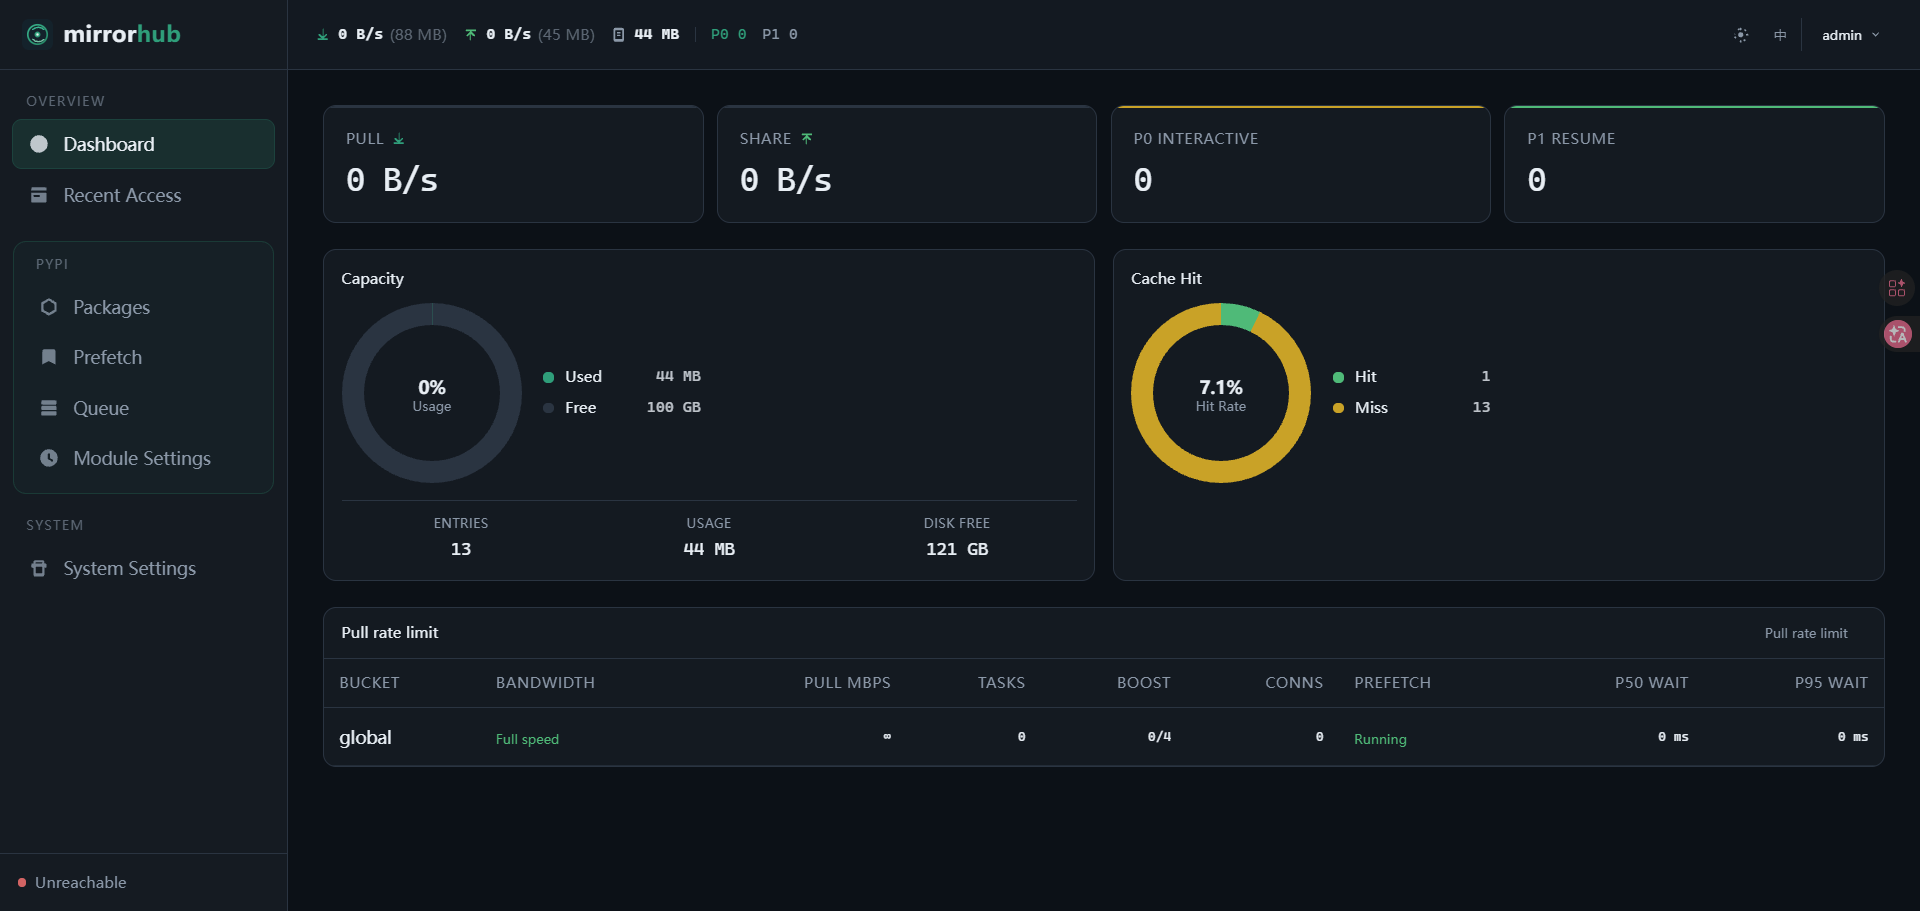
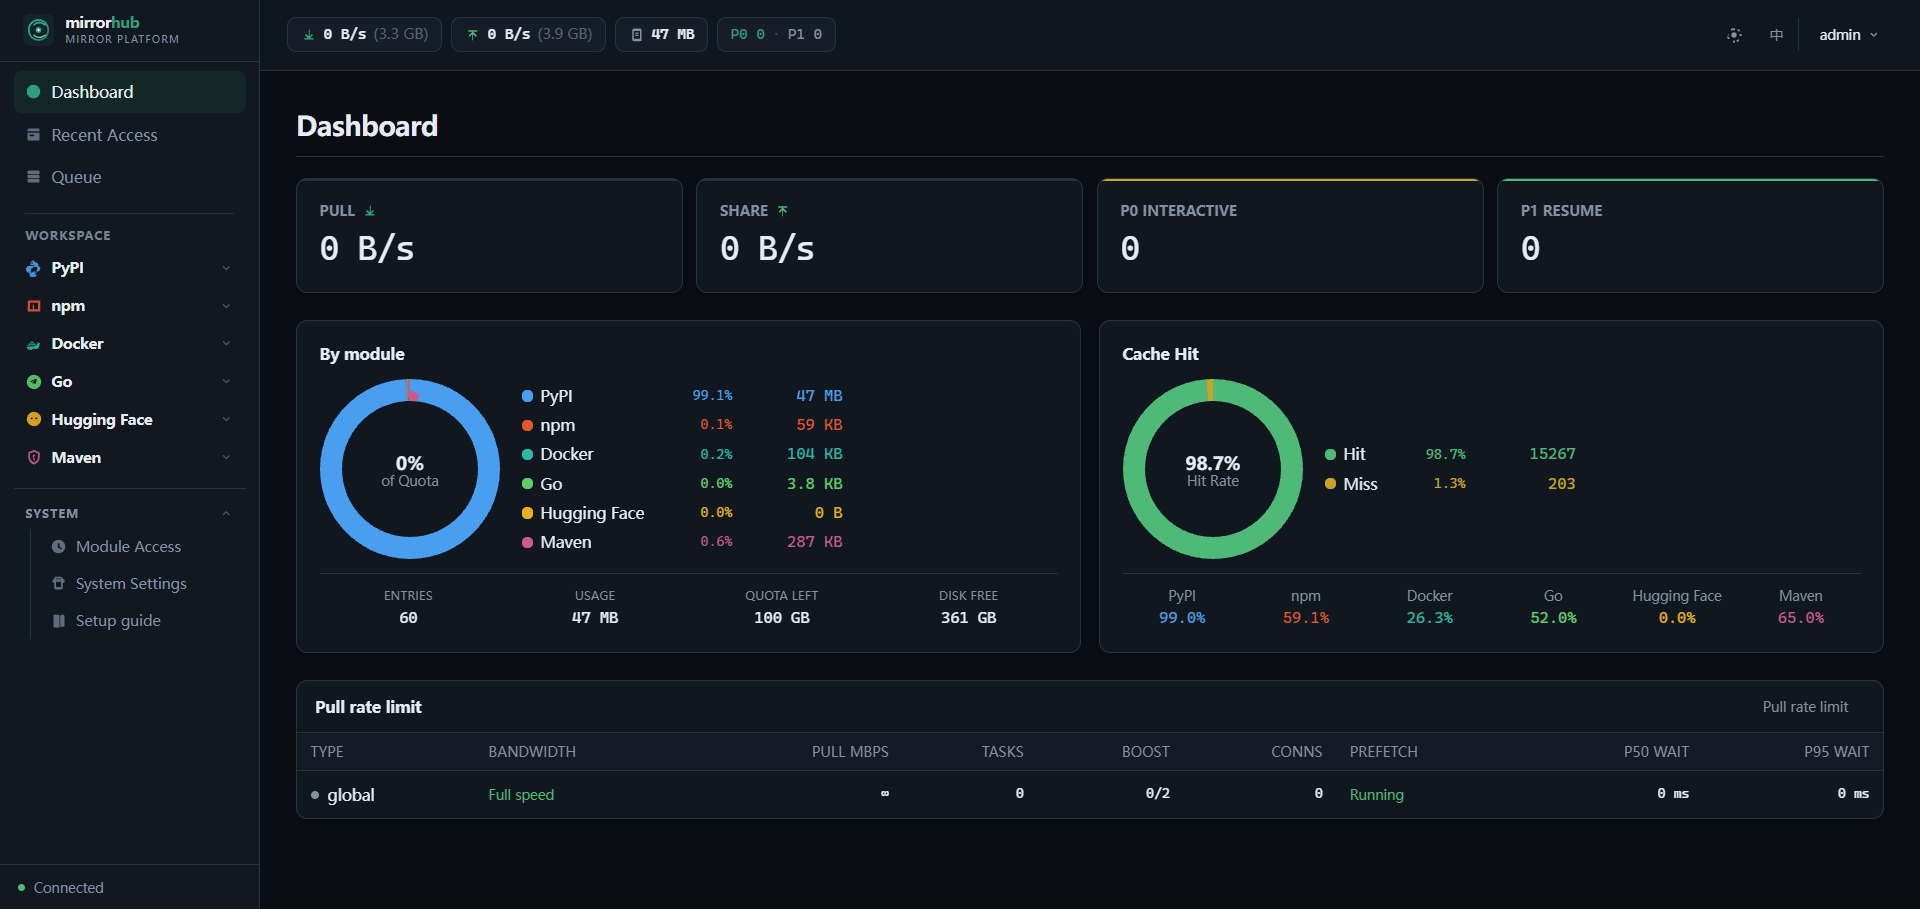
更新UI图

diff --git a/frontend/src/views/Dashboard.vue b/frontend/src/views/Dashboard.vue
@@ -38,11 +38,12 @@ const quotaLeft = computed(() => {
 
 const cacheSlices = computed(() => {
   const by = stats.value?.cache?.by_platform || {}
+  // 全部模块始终展示（含 0 占用），便于对照侧栏模块列表
   const slices = MODULES.map((d) => ({
     label: t(d.labelKey),
     value: Number(by[d.id] || 0),
     color: moduleColor(d.id),
-  })).filter((s) => s.value > 0)
+  }))
 
   const other = Number(by.other || 0)
   if (other > 0) {

diff --git a/backend/internal/platid/platid.go b/backend/internal/platid/platid.go
@@ -30,10 +30,22 @@ func Of(key, sourceURL, kind string) string {
 func Belongs(platform, key, sourceURL, kind string) bool {
 	key = strings.ToLower(strings.TrimSpace(key))
 	src := strings.TrimSpace(sourceURL)
+	kind = strings.TrimSpace(kind)
 	switch platform {
 	case "pypi":
-		if src == "" || strings.TrimSpace(kind) == "" {
+		// 索引键为 pypi:index:…；根 /simple/ 无包名，不能仅靠 ParseArtifactURL.Name
+		if strings.HasPrefix(key, "pypi:") {
+			return true
+		}
+		if src == "" {
 			return false
+		}
+		if kind == "index" || strings.Contains(src, "/simple/") {
+			return true
+		}
+		if kind == "metadata" || kind == "package" {
+			info := pypihandler.ParseArtifactURL(src, kind)
+			return info.Name != "" || strings.Contains(src, "/packages/")
 		}
 		info := pypihandler.ParseArtifactURL(src, kind)
 		return info.Name != ""
@@ -85,6 +97,14 @@ func looksLikeNPMPackument(raw string) bool {
 	if strings.HasPrefix(p, "/@") {
 		return strings.Count(p, "/") >= 2 && !strings.Contains(p, "/-/")
 	}
+	// 单段路径易误伤 PyPI 根 /simple/、Docker /v2 等
 	segs := strings.Split(strings.Trim(p, "/"), "/")
-	return len(segs) == 1 && segs[0] != "" && !strings.Contains(segs[0], ".")
+	if len(segs) != 1 || segs[0] == "" || strings.Contains(segs[0], ".") {
+		return false
+	}
+	switch strings.ToLower(segs[0]) {
+	case "simple", "packages", "v2", "maven2", "repository", "sumdb":
+		return false
+	}
+	return true
 }
